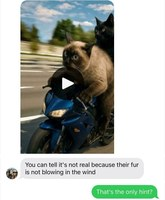
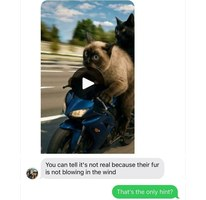
Video 1: big centred card (covers background characters, user's choice)
Claude-Session: https://claude.ai/code/session_01AbA5D9fme59fJxzBWofVs3

diff --git a/.claude/skills/zkeyoo-shorts/SKILL.md b/.claude/skills/zkeyoo-shorts/SKILL.md
@@ -60,7 +60,7 @@ Also send ONE contact-sheet image with all candidate photos numbered (build it w
 wait-what · faith · heartbreaking · unpopular · you-decide · history · did-you-know · celeb · trending · lol. Rotate them.
 
 ### Layouts (`layout`)
-single · lr · tb · row3 · t1b2 · l1r2 · 2x2 · l2r3. **The card must always be big**: if a background's characters sit on one side (e.g. bg 24), give it 4 values `[y0,y1,x0,x1]` in `zones.json` so the card moves to the free side instead of shrinking. Chat screenshots: the punchline must stay visible (recompose the image if the crop hides it). Vary layouts; not every post is one 16:9 photo. `focus` = object-position.
+single · lr · tb · row3 · t1b2 · l1r2 · 2x2 · l2r3. **The card must always be big and centred** (user's choice): if a background leaves little free space (e.g. bg 24), use the full 110–930 band in the centre even if the card covers the characters. (`zones.json` also accepts `[y0,y1,x0,x1]` to move the card sideways, but the user prefers the centre.) Chat screenshots: the punchline must stay visible (recompose the image if the crop hides it). Vary layouts; not every post is one 16:9 photo. `focus` = object-position.
 Free photos (NASA, gov, Wikimedia) when possible, but **viral quality comes first**: use the best photo anyway.
 
 ### Metadata (vidIQ)

diff --git a/zkeyoo-shorts/README.md b/zkeyoo-shorts/README.md
@@ -106,7 +106,7 @@ vidIQ è collegato al canale **Zkeyoo** (`UCDrAa6j3kpvjK6GFwkaw8Xg`, @zkeyooreal
 ## Regole di layout
 - La card occupa il 76% della larghezza ed è centrata nella fascia libera dello sfondo. Se è troppo alta si riduce la foto, poi il testo.
 - La card resta tra y=110 e y=930 (su 1280), così non finisce sotto il titolo, il canale e i pulsanti dell'interfaccia di Shorts.
-- **Card grande sempre.** Se uno sfondo ha i personaggi solo su un lato (es. il 24, torre a destra), in `zones.json` si mettono 4 valori `[y0, y1, x0, x1]`: la card si sposta nella parte libera e resta alta. Mai una card piccola schiacciata in una fascia bassa (l'utente non la vuole).
+- **Card grande e sempre al centro (scelta dell'utente).** Mai una card piccola schiacciata in una fascia stretta: se lo spazio libero dello sfondo è poco (es. il 24, torre di personaggi), si usa tutta la fascia 110–930 al centro anche se la card copre i personaggi. (`zones.json` accetta anche 4 valori `[y0, y1, x0, x1]` per spostare la card di lato, ma l'utente preferisce il centro.)
 - Negli screenshot di chat la battuta finale deve restare visibile: se il taglio la nasconde, ricomponi l'immagine (togli spazi vuoti e barre inutili).
 
 ## Descrizione del canale (approvata)
